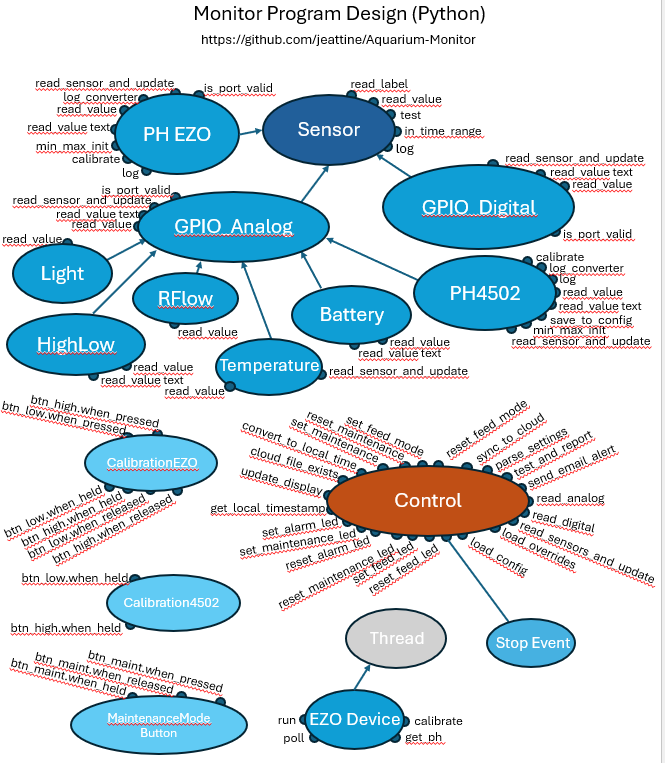
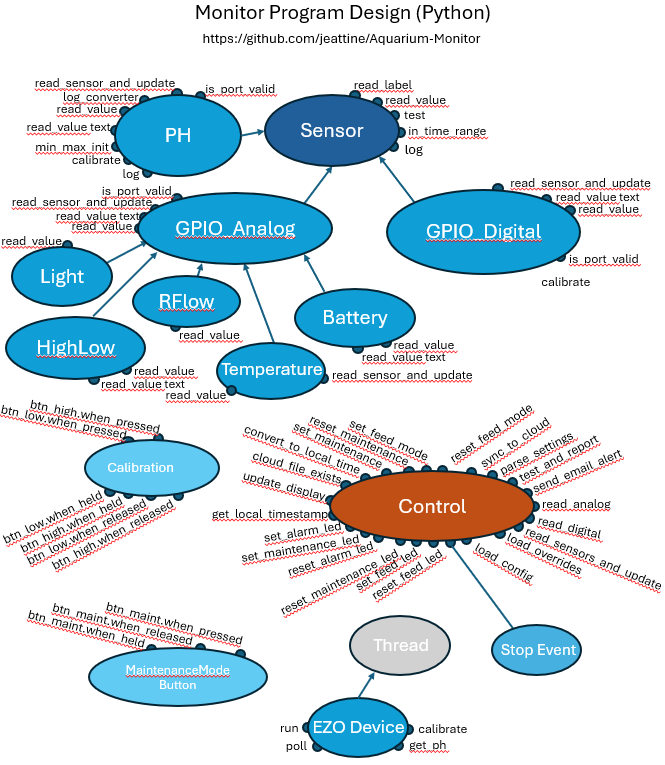
Use event wait for ph ezo thread
Replace time.sleep with event.wait to allow for a faster shutdown. No longer need to wait for the sleep to timeout. Also some documentation changes related to removing the PH 4502 support.

Changed region(s): [[0.0, 0.0, 1.0, 1.0], [0.2707, 0.0, 0.7519, 0.0603], [0.4511, 0.211, 0.5414, 0.2713]]

diff --git a/aquamon.py b/aquamon.py
@@ -354,8 +354,7 @@ class Ph(Sensor):
 
     def terminate_thread(self):
         self.ph_ezo.running = False
-        print(f"Waiting for ph_ezo thread to terminate. Timeout= {self.poll_frequency} seconds...")
-        self.ph_ezo.join(timeout=self.poll_frequency)
+        self.ph_ezo.join(timeout=1)
         if self.ph_ezo.is_alive():
             print("Warning: pH ezo thread did not exit gracefully.")
         else:
@@ -485,7 +484,9 @@ class EzoDevice(threading.Thread):
         while self.running:
             if not self.controller.calibrate_mode:
                 self.poll()
-            time.sleep(2 if self.controller.maintenance_mode else self.sensor.poll_frequency)
+            sleep_time = (2 if self.controller.maintenance_mode else self.sensor.poll_frequency)
+            if self.controller.stop_event.wait(sleep_time):
+                break
 
     def poll(self):
         try:
@@ -752,6 +753,9 @@ class Control:
         self.stop_event.set()
 
     def cleanup(self):
+        # stop event may not have been called yet in certain exit flows.
+        self.stop_event.set()
+
         # Clean up hardware resources
         try:
             if hasattr(self, 'spi0'):

diff --git a/README.md b/README.md
@@ -3,9 +3,9 @@
 
 ![Assembled3](./images/assembled3.jpg)
 
-Python-based aquarium monitor program running under the Raspberry Pi OS Lite Linux operating system on a Raspberry Pi 4 board. A Adafruit Perma-Proto Hat is mounted on the board to house two MCP3008 10-bit ADC with SPI interface. This provides the analog inputs to the monitor. The HAT also provides solder pads for each of the other GPIO pins used as digital inputs. The monitor has 23 RCA sockets and one BNC socket for input of the sensors. One RCA socket is used for output for the alarm/maintenance_mode LED indicator. The monitor has a button to force a reset or a shutdown of the OS/monitor and a switch to enter a maintenance mode which disables alerts and enables pH calibration. There is also a Feed Mode button that allows pumps to be turned off during feeding without generating alerts. The monitor provides two buttons for the calibration of the PH probe, with a PH-Mid and a PH-High that can be set to the values of the calibration fluid in the configuration file or the override file. The calibration action will write its result back the configuration file if the older PH 4502c interface is used. The newer pH EZO interface through the BNC connector stores calibration internally and does not rely on the external calibration data. When performing the calibration, the display will show Maintenance text along with the current PH value. The PH value display is helpful during PH calibration so that it can be seen that the PH values have stabilized with the probe in the calibration fluid. The monitor status, PH logs, and updated configuration files can be observed in a cloud folder by external devices. I am using Dropbox. This is accomplished using 'rclone copyto'. Monitor alerts are surfaced by emails sent to the recipients listed in the configuration file. The monitor will autostart after the Linux OS boots. It is started via a service and set to be restarted if it abnormally terminates. 
+Python-based aquarium monitor program running under the Raspberry Pi OS Lite Linux operating system on a Raspberry Pi 4 board. A Adafruit Perma-Proto Hat is mounted on the board to house two MCP3008 10-bit ADC with SPI interface. This provides the analog inputs to the monitor. The HAT also provides solder pads for each of the other GPIO pins used as digital inputs. The monitor has 23 RCA sockets and one BNC socket for input of the sensors. One RCA socket is used for output for the alarm/maintenance_mode LED indicator. The monitor has a button to force a reset or a shutdown of the OS/monitor and a switch to enter a maintenance mode which disables alerts and enables pH calibration. There is also a Feed Mode button that allows pumps to be turned off during feeding without generating alerts. The monitor provides two buttons for the calibration of the PH probe, with a PH-Mid and a PH-High that can be set to the values of the calibration fluid in the configuration file or the override file. The calibration is saved internally and does not rely on the external calibration data. When performing the calibration, the display will show *Maintenance* text along with the current PH value. The PH value display is helpful during PH calibration so that it can be seen that the PH values have stabilized with the probe in the calibration fluid. The monitor status, PH logs, and updated configuration files can be observed in a cloud folder by external devices. I am using Dropbox as my cloud provider due to the simplicity of setting this up on Linux. The storing of the status is accomplished using 'rclone copyto'. Monitor alerts are surfaced by emails sent to the recipients listed in the configuration file. The monitor will autostart after the Linux OS boots. It is started via a service and set to be restarted if it abnormally terminates. 
 
-The program design has a 'Main' that constructs a Control object and loops calling methods on the Control object instantiation. 'Main' will stay in a continuous loop until an exception or a termination event causes it to exit. The input to the program is a config.txt file expected to be in the current directory. This file is composed of two sections. The first section assigns the port numbers of the hardware to various classes to read and process the sensor data connected to those port inputs. Some examples are classes to monitor temperature, Flow, water level, and light. These classes are derived from either a GPIO_Digital or a GPIO_Analog class, depending on the type of sensor. The pH EZO sensor is attached via the i2C interface (not a digital or analog GPIO). The GPIO_Digital, GPIO_Analog, and PH_EZO classes are derived from the Sensor base class. In addition to the port assignment to classes, this section of the config file also gives a descriptive name to each port input and defines the expected values/ranges/time-periods for operation. Another input to the program is the override.txt file. This file resides at a cloud location, either Dropbox or Onedrive depending on how the system is configured. This override file provides a convenient way to modify a subset of the settings in the config.txt file. For example when going on vacation I may want to modify the recipient list of the email alerts. I can do this by simply modifying the override file in the cloud folder from any device that has access to that folder. The utility Tailscale is installed on the monitor and on personal devices. This provides direct ssh access to the monitor via a split VPN tunnel directly between the personal devices and the monitor, allowing safe client SSH access to the monitor from outside the local home network. SSH access is useful if I need to perform a more drastic administrative or service action when away from home. When away from my primary laptop, the need may arise to modify the config.txt or the aquamon.py file. My iPAD and phone both have a dropbox application and Tailscale. On the iPAD I am using the Terminal# app which will get me into an SSH session. On the phone I use Termux. On the monitor I have two aliases set up: update-aquamon and update_config. They will use 'rclone copyto' to copy files from my local GitHub repository located in dropbox to the monitor. From there a systemctl restart put the new files in play. For an editor on the iPAD I am using Runestone. It's simple, lightweight, and color-codes nicely editing python code.
+The program design has a 'Main' that constructs a Control object and loops calling methods on the Control object instantiation. 'Main' will stay in a continuous loop until an exception or a termination event causes it to exit. The input to the program is a config.txt file expected to be in the current directory. This file is composed of two sections. The first section assigns the port numbers of the hardware to various classes to read and process the sensor data connected to those port inputs. Some examples are classes to monitor temperature, Flow, water level, and light. These classes are derived from either a GPIO_Digital or a GPIO_Analog class, depending on the type of sensor. The pH sensor is attached via the i2C interface (not a digital or analog GPIO). The GPIO_Digital, GPIO_Analog, and PH classes are derived from the Sensor base class. In addition to the port assignment to classes, this section of the config file also gives a descriptive name to each port input and defines the expected values/ranges/time-periods for operation. Another input to the program is the override.txt file. This file resides at a cloud location, either Dropbox or Onedrive depending on how the system is configured. This override file provides a convenient way to modify a subset of the settings in the config.txt file. For example when going on vacation I may want to modify the recipient list of the email alerts. I can do this by simply modifying the override file in the cloud folder from any device that has access to that folder. The utility Tailscale is installed on the monitor and on personal devices. This provides direct ssh access to the monitor via a split VPN tunnel directly between the personal devices and the monitor, allowing safe client SSH access to the monitor from outside the local home network. SSH access is useful if I need to perform a more drastic administrative or service action when away from home. When away from my primary laptop, the need may arise to modify the config.txt or the aquamon.py file. My iPAD and phone both have a dropbox application and Tailscale. On the iPAD I am using the Terminal# app which will get me into an SSH session. On the phone I use Termux. On the monitor I have two aliases set up: update-aquamon and update_config. They will use 'rclone copyto' to copy files from my local GitHub repository located in dropbox to the monitor. From there a systemctl restart put the new files in play. For an editor on the iPAD I am using Runestone. It's simple, lightweight, and color-codes nicely editing python code.
 
 Code structure:
 
@@ -37,7 +37,6 @@ The following images show the various sensors that feed the monitor through the 
 ![Misc Detect](./images/VariousDetect.png)
 ![Conditional and Temp Detect](./images/ConditionalTempDetect.png)
 ![Battery Condition](./images/BatteryCondition.png)
-![PH Detect page 1](./images/PhDetect.png)
 ![Filter Roller](./images/Filterroller.png)
 
 ## Raspberry Pi Setup for the Aquarium Monitor
